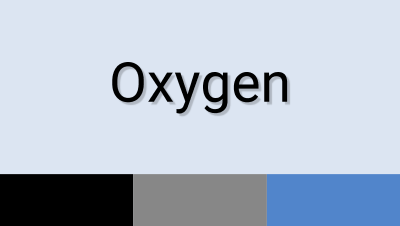
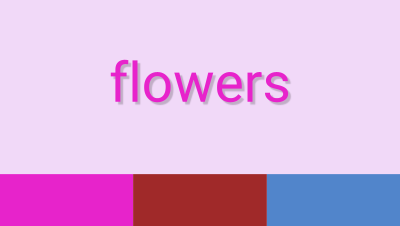
Insert zip content

Changed region(s): [[0.0, 0.7434, 0.69, 1.0], [0.27, 0.2478, 0.75, 0.5265]]

diff --git a/.contentfusion/templates/flowers/styles.css b/.contentfusion/templates/flowers/styles.css
@@ -1,8 +1,8 @@
 /*#
-@colors&{"titlesAccentColor":"#000000","labelsAccentColor":"#878787","linksAccentColor":"#5185cb","backgroundAccentColor":"#dce5f2","isDefault":true}&colors@
+@colors&{"titlesAccentColor":"#e723cb","labelsAccentColor":"#a02929","linksAccentColor":"#5185cb","backgroundAccentColor":"#f1d9f8","isDefault":true}&colors@
 @info@STYLES BASKET SELECTIONS METADATA@info@
 @name&styles_basket&name@
-@aspects&wh-tiles,accent-colors-selector,wh-menu-page-colors-white-color-black-bg,wh-breadcrumb-colors-labels-colors-bg,wh-search-component-background-color-dark,wh-footer-background-color-dark,fonts-selector,wh-search-component-padding-extra-extra-large,notes-layout-two-lines,notes-style-borders-box,notes-colors-colorful,table-colors-black-white,wh-tiles-themes-titles-and-link-bg&aspects@
+@aspects&wh-tree,accent-colors-selector,wh-menu-page-colors-white-color-black-bg,wh-breadcrumb-colors-labels-colors-bg,wh-search-component-background-color-dark,wh-footer-background-color-dark,fonts-selector,wh-search-component-padding-extra-extra-large,notes-layout-two-lines,notes-style-borders-box,notes-colors-colorful,table-colors-black-white,wh-tiles-themes-titles-and-label-bg,between-elements-extra-large,between-lines-large,titles-position-centered,titles-borders-burger,titles-borders-width-thick,table-style-bottom-border,unordered-list-bullet-square,unordered-list-bullet-color-titles,unordered-list-bullet-size-bigger,ordered-list-counter-decimal,related-links-styles-bd-bottom-uppercase,page-columns-two,pdf-cover-selector,pdf-cover-title-horizontal-alignment-left,pdf-cover-title-vertical-alignment-top,pdf-cover-title-colors-labels,toc-numbering-deep,wh-tree-themes-titles-labels-colors-with-bg,wh-breadcrumb-style-bold-selection,wh-breadcrumb-separator-diamond,wh-left-toc-light-shadow&aspects@
 @info@WARNING: PLEASE DON'T MODIFY THIS FILE. MODIFICATION CAN CAUSE UPLOADING ERRORS@info@
 @info@TIP: YOU CAN USE custom.css TO ADD CUSTOM SELECTORS.@info@
 #*/
@@ -50,6 +50,14 @@
   font-weight: 700;
   font-style: italic;
 }
+@media print {
+  @page front-page {
+    background-image: url("resources/cover.jpg");
+    background-repeat: no-repeat;
+    background-size: 100% 100%;
+    background-position: center;
+  }
+}
 /* Bold selection in Publication TOC. WebHelp only. */
 @media screen {
   .wh_publication_toc .active > .topicref a {
@@ -68,10 +76,10 @@
 *[class~="placeholder/figurelist"] > *[class~="topic/title"],
 *[class~="placeholder/tablelist"] > *[class~="topic/title"],
 *[class~="index/groups"]::before {
-  color: #000000;
+  color: #e723cb;
 }
 *[class~='topic/shortdesc']:before {
-  color: #878787;
+  color: #a02929;
 }
 *[class~='topic/xref'],
 *[class~='topic/link'] {
@@ -87,7 +95,7 @@ a:visited {
   color: #5185cb;
 }
 *[class~='topic/table'] th {
-  background-color: #dce5f2;
+  background-color: #f1d9f8;
 }
 /*fonts-selector*/
 @page {
@@ -119,9 +127,94 @@ a:visited {
 body {
   font-family: 'SecondaryBrandingFont', sans-serif;
 }
+/*between-elements-extra-large*/
+*[class~='topic/p'],
+*[class~='topic/lq'],
+*[class~='topic/note'],
+*[class~='topic/dl'],
+*[class~='topic/ul'],
+*[class~='topic/ol'],
+*[class~='topic/li'],
+*[class~='topic/sl'],
+*[class~='topic/pre'],
+*[class~='topic/lines'],
+*[class~='topic/fig'],
+*[class~='topic/table'],
+*[class~='topic/simpletable'],
+*[class~='topic/section'],
+*[class~='topic/example'] {
+  margin: 1.5em 0;
+}
+/*between-lines-large*/
+*[class~='topic/topic'],
+*[class~='topic/body'],
+*[class~='topic/title'] {
+  line-height: 1.6;
+}
+/*titles-position-centered*/
+.topictitle1,
+.topictitle2,
+.topictitle3,
+.topictitle4,
+.topictitle5,
+.topictitle6,
+*[class~="toc/title"],
+*[class~="placeholder/figurelist"] > *[class~="topic/title"],
+*[class~="placeholder/tablelist"] > *[class~="topic/title"],
+*[class~="index/groups"]::before {
+  text-align: center;
+}
+/*titles-borders-burger*/
+.topictitle1,
+.topictitle2:not(*[class ~= "glossentry/glossterm"]),
+*[class~="toc/title"],
+*[class~="placeholder/figurelist"] > *[class~="topic/title"],
+*[class~="placeholder/tablelist"] > *[class~="topic/title"],
+*[class~="index/groups"]::before {
+  border-top: 1px solid;
+  border-bottom: 1px solid;
+  padding: 0.25em;
+}
+/*titles-borders-width-thick*/
+.topictitle1,
+.topictitle2,
+.topictitle3,
+.topictitle4,
+.topictitle5,
+.topictitle6,
+*[class~="toc/title"],
+*[class~="placeholder/figurelist"] > *[class~="topic/title"],
+*[class~="placeholder/tablelist"] > *[class~="topic/title"],
+*[class~="index/groups"]::before {
+  border-width: thick !important;
+}
+/*table-style-bottom-border*/
+*[class~='topic/entry'],
+*[class~='topic/stentry'] {
+  border: 0;
+  border-bottom: thin solid;
+}
 /*table-colors-black-white*/
 *[class~='topic/table'] th {
   background-color: #ffffff;
+}
+/*unordered-list-bullet-square*/
+*[class="- topic/ul ul"] > *[class="- topic/li li"] {
+  list-style-type: square;
+}
+/*unordered-list-bullet-color-titles*/
+*[class="- topic/ul ul"] > *[class="- topic/li li"]::marker,
+*[class="- topic/ul ul"] > *[class="- topic/li li"]::before {
+  color: #e723cb;
+}
+/*unordered-list-bullet-size-bigger*/
+*[class="- topic/ul ul"] > *[class="- topic/li li"]::marker,
+*[class="- topic/ul ul"] > *[class="- topic/li li"]::before {
+  font-size: 1.3em;
+}
+/*ordered-list-counter-decimal*/
+*[class="- topic/ol ol"] > *[class="- topic/li li"] {
+  list-style-type: decimal;
 }
 /*notes-layout-two-lines*/
 span.note__title {
@@ -152,24 +245,92 @@ span.note__title {
   background-color: rgba(255, 226, 225, 0.32);
   border-color: #FF342D;
 }
-/*wh-tiles*/
-/*wh-tiles-themes-titles-and-link-bg*/
+/*related-links-styles-bd-bottom-uppercase*/
+*[class~="topic/linklist"] > strong {
+  border-bottom: 1px solid #e723cb;
+  text-transform: uppercase;
+  display: inherit;
+}
+/*page-columns-two*/
+@media print {
+  @page chapter {
+    column-count: 2;
+  }
+}
+/*pdf-cover-selector*/
+/*pdf-cover-title-horizontal-alignment-left*/
+*[class~="front-page/front-page-title"] > *[class~="topic/title"] {
+  text-align: left;
+}
+/*pdf-cover-title-vertical-alignment-top*/
+*[class~="front-page/front-page-title"] {
+  margin-top: 0px;
+}
+/*pdf-cover-title-colors-labels*/
+*[class~="front-page/front-page-title"] > *[class~="topic/title"] {
+  color: #a02929;
+  background-color: transparent;
+}
+/*toc-numbering-deep*/
+/*wh-tree*/
+/*wh-tiles-themes-titles-and-label-bg*/
 .wh_tile {
   border-radius: 8px;
-  background-color: #dce5f2;
+  background-color: #f1d9f8;
 }
 .wh_tile_title {
   text-align: center;
   font-size: 1.5em;
 }
 .wh_tile_title a {
-  color: #5185cb;
+  color: #e723cb;
 }
 .wh_tile_shortdesc {
   margin-top: 1em;
   margin-bottom: 0.5em;
   text-align: center;
-  color: #000000;
+  color: #a02929;
+}
+/*wh-tree-themes-titles-labels-colors-with-bg*/
+.wh_main_page_toc {
+  border: none;
+  background-color: #f1d9f8;
+}
+.wh_main_page_toc .wh_main_page_toc_accordion_header,
+.wh_main_page_toc > .wh_main_page_toc_entry,
+.wh_main_page_toc_accordion_entries {
+  border-bottom: #e723cb;
+  background-color: transparent;
+  text-align: left;
+}
+.wh_main_page_toc .wh_main_page_toc_accordion_header:hover,
+.wh_main_page_toc > .wh_main_page_toc_entry:hover {
+  background-color: rgba(231, 35, 203, 0.2);
+  color: #e723cb;
+}
+.wh_main_page_toc .topicref a,
+.wh_main_page_toc .topicref a:visited {
+  color: #e723cb;
+}
+.wh_main_page_toc .wh_toc_shortdesc {
+  color: #a02929;
+  font-weight: normal;
+}
+.wh_main_page_toc_accordion_header:before {
+  color: #e723cb;
+}
+/*wh-breadcrumb-style-bold-selection*/
+.wh_breadcrumb ol .active a {
+  font-weight: bold;
+}
+/*wh-breadcrumb-separator-diamond*/
+.wh_breadcrumb li:not(:last-of-type):after {
+  content: ' \0025C6 ';
+}
+/*wh-left-toc-light-shadow*/
+.wh_publication_toc {
+  box-shadow: 0px 0px 3px 1px #a02929;
+  padding: 1em;
 }
 /*wh-menu-page-colors-white-color-black-bg*/
 .wh_header {
@@ -196,7 +357,7 @@ span.note__title {
 }
 /*wh-search-component-background-color-dark*/
 .wh_search_input {
-  background-color: #92aed6;
+  background-color: #d183e8;
 }
 /*wh-search-component-padding-extra-extra-large*/
 .wh_search_input {
@@ -204,6 +365,6 @@ span.note__title {
 }
 /*wh-footer-background-color-dark*/
 .wh_footer {
-  background-color: #6c92c9;
+  background-color: #c158e0;
 }
 
